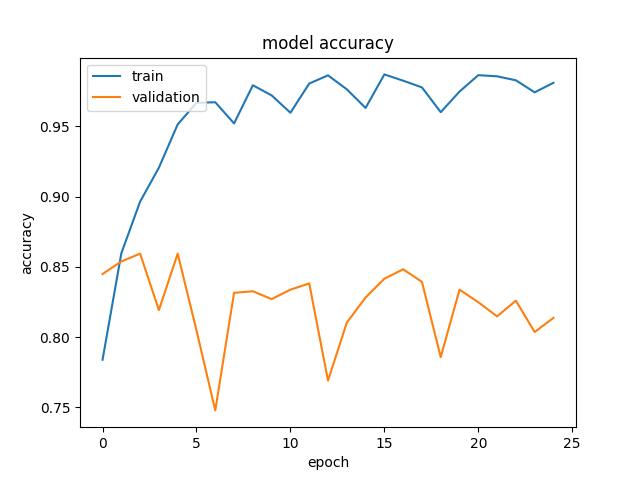
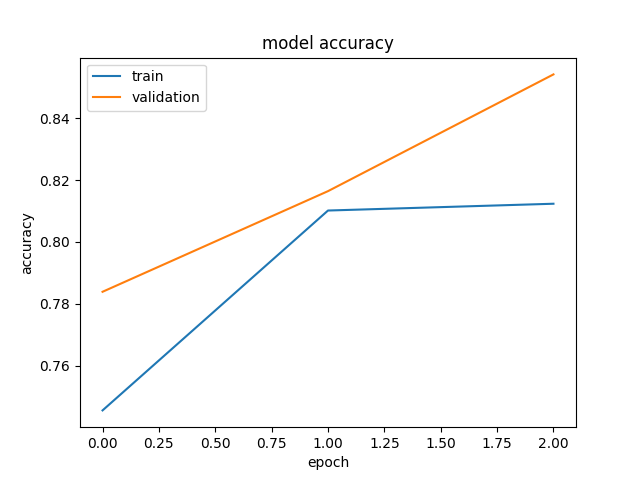
Last Commit: Done with Thesis

diff --git a/classify.py b/classify.py
@@ -6,7 +6,7 @@ import time
 # Example from https://www.tensorflow.org/tutorials/load_data/images
 def define_model():
 
-    # '''Create model (Original)'''
+    # '''Create model (Model 1.0)'''
     # model = tf.keras.Sequential([
     #     tf.keras.layers.Rescaling(1./255),
     #     tf.keras.layers.Conv2D(32, 3, activation='relu'),
@@ -17,8 +17,7 @@ def define_model():
     #     tf.keras.layers.MaxPooling2D(),
     #     tf.keras.layers.Flatten(),
     #     tf.keras.layers.Dense(128, activation='relu'),
-    #     tf.keras.layers.Dense(2)
-    # ])
+    #     tf.keras.layers.Dense(2)])
 
     '''Model 1.1'''
     model = tf.keras.Sequential([
@@ -63,15 +62,22 @@ def define_model():
     
     
     
-
-    # '''ResNet model'''
+    # '''ResNet model (default: imagenet and 1000 classes)'''
     # model = tf.keras.applications.resnet50.ResNet50()
 
-    # '''VGG16 model'''
-    # model = tf.keras.applications.vgg16.VGG16(
+    # '''ResNet model (No pretraining weights and 2 classes)'''
+    # model = tf.keras.applications.resnet50.ResNet50(
     #     include_top=True,
-    #     weights=None,
-    #     classes=2)
+    #     classes = 2,
+    #     weights = None
+    #     # weights = 'imagenet'
+    # )
+
+    # '''VGG16 model'''
+    # model = tf.keras.applications.vgg16.VGG16()
+    #     # include_top=True,
+    #     # weights=None,
+    #     # classes=2)
     
 
     # To view the training and validation accuracy for each training epoch, 
@@ -82,7 +88,7 @@ def define_model():
     model.compile(
         optimizer='adam',
         loss=tf.losses.SparseCategoricalCrossentropy(from_logits=True),
-        # loss=tf.losses.SparseCategoricalCrossentropy(from_logits=False),
+        # loss=tf.losses.SparseCategoricalCrossentropy(from_logits=False), # ResNet and VGG16
         metrics=['accuracy','mae'])
 
     return model
@@ -97,7 +103,7 @@ def train(model,train_ds,val_ds):
     history = model.fit(
         train_ds,
         validation_data=val_ds,
-        epochs=25
+        epochs=3
     )
 
     

diff --git a/main.py b/main.py
@@ -17,8 +17,8 @@ def main():
     data_dir = get_data()
     
     # Preprocess Data (Data Augmentation and datasplit splits)
-    train_ds, val_ds, test_ds = preprocess_data(data_dir,aug_split = .2)
-    
+    train_ds, val_ds, test_ds = preprocess_data(data_dir,aug_split = 0)
+    display_image(['Benign','Malignant'],train_ds,filename = "700x460")
     # Make the test_dataset an iterable object
     test_ds_copy = iter(test_ds)
 
@@ -66,14 +66,11 @@ def main():
     #     results.append(model.evaluate(test_ds,batch_size=32))
     #     results[i].append(training_time)
         
-    #     # Evaluate the Model (classify test dataset)
-    #     results.append(model.evaluate(test_ds,batch_size=32))
-    #     results[i].append(training_time)
 
     # display_eval_results(results)
 
-    # # Displays true labels compared to estimated labels for 32 samples. (Proof of Concept)
-    # confirm_output(model, test_ds)
+    # # # Displays true labels compared to estimated labels for 32 samples. (Proof of Concept)
+    # # confirm_output(model, test_ds)
     
     '''Display Results'''
     # Prints out Performance Metrics from the prediction of the test dataset 
@@ -154,6 +151,9 @@ def predict_labels(model,test_ds):
         temp_pred_labels = prediction.argmax(axis=-1)
         pred_labels.extend(temp_pred_labels)
 
+    # print(temp_labels[:6])
+    # print(prediction[:6])
+    # print(temp_pred_labels[:6])
     num = 0
     for i in range(len(labels)):
         num += abs(pred_labels[i]-labels[i])
@@ -179,8 +179,8 @@ def calculate_metrics(labels, pred_labels):
             FP += 1     # False Positive
         elif labels[i] == 1 and pred_labels[i] == 0:
             FN += 1     # False Negative
-        else:   # If labels aren't binary, raise error
-            raise ValueError("Labels are not binary")
+        # else:   # If labels aren't binary, raise error
+        #     raise ValueError("Labels are not binary")
 
     # Calculate Accuracy and return results
     accuracy = (TN + TP)/total

diff --git a/support_functions.py b/support_functions.py
@@ -20,6 +20,7 @@ def tree_file_printer(root):
             print (os.path.join(root, f))
 
 # tree_directory_printer('C:/Users/Ross/OneDrive/Documents/Thesis')
+
 '''Visualizations'''
 def visualize_sample_data(class_names,train_ds,filename = "visualize_sample_data"):
     # Save sample images of training data
@@ -34,18 +35,18 @@ def visualize_sample_data(class_names,train_ds,filename = "visualize_sample_data
     # Save image
     plt.savefig('/home/Thesis/'+filename+'.png')
 
-# def visualize_augmentation(original, augmented, filename = 'augemented'):
-#     fig = plt.figure()
-#     plt.subplot(1,2,1)
-#     plt.title('Original image')
-#     plt.imshow(original)
 
-#     plt.subplot(1,2,2)
-#     plt.title('Augmented image')
-#     plt.imshow(augmented)
+'''Display image'''
+def display_image(class_names,train_ds,filename = "single image"):
+    # Save sample images of training data
+    plt.figure()
+    for images, labels in train_ds.take(1):
+        plt.imshow(images[0].numpy().astype("uint8"))
+        plt.title(class_names[labels[0]])
+        plt.axis("off")
 
-#     # Save image
-#     plt.savefig('/home/Thesis/'+ filename +'.png')
+    # Save image
+    plt.savefig('/home/Thesis/'+filename+'.png')
 
 
 def visualize_augmentations(train_ds,rot_and_flip_aug,filename = "augmentations"):

diff --git a/data_management.py b/data_management.py
@@ -124,7 +124,6 @@ def get_dataset_partitions(ds, train_split=0.8, aug_split = 0, val_split=0.1, te
 def augment_data(train_ds,aug_ds):
     '''Define Augmentations'''
 
-
     # Performs random rotation and flip
     rot_and_flip_aug = tf.keras.Sequential([
         tf.keras.layers.RandomFlip("horizontal_and_vertical",seed=123),
@@ -139,13 +138,10 @@ def augment_data(train_ds,aug_ds):
     aug_ds = aug_ds.map(
         lambda x, y: (rot_and_flip_aug(x, training=True), y),num_parallel_calls=AUTOTUNE)
 
-
     # Append the augmented data to the training data
     train_ds = train_ds.concatenate(aug_ds)
     
     # Show some augmentations
     visualize_augmentations(train_ds,rot_and_flip_aug,filename = "augmentations")
 
-    print(len(train_ds))
     return train_ds
-
